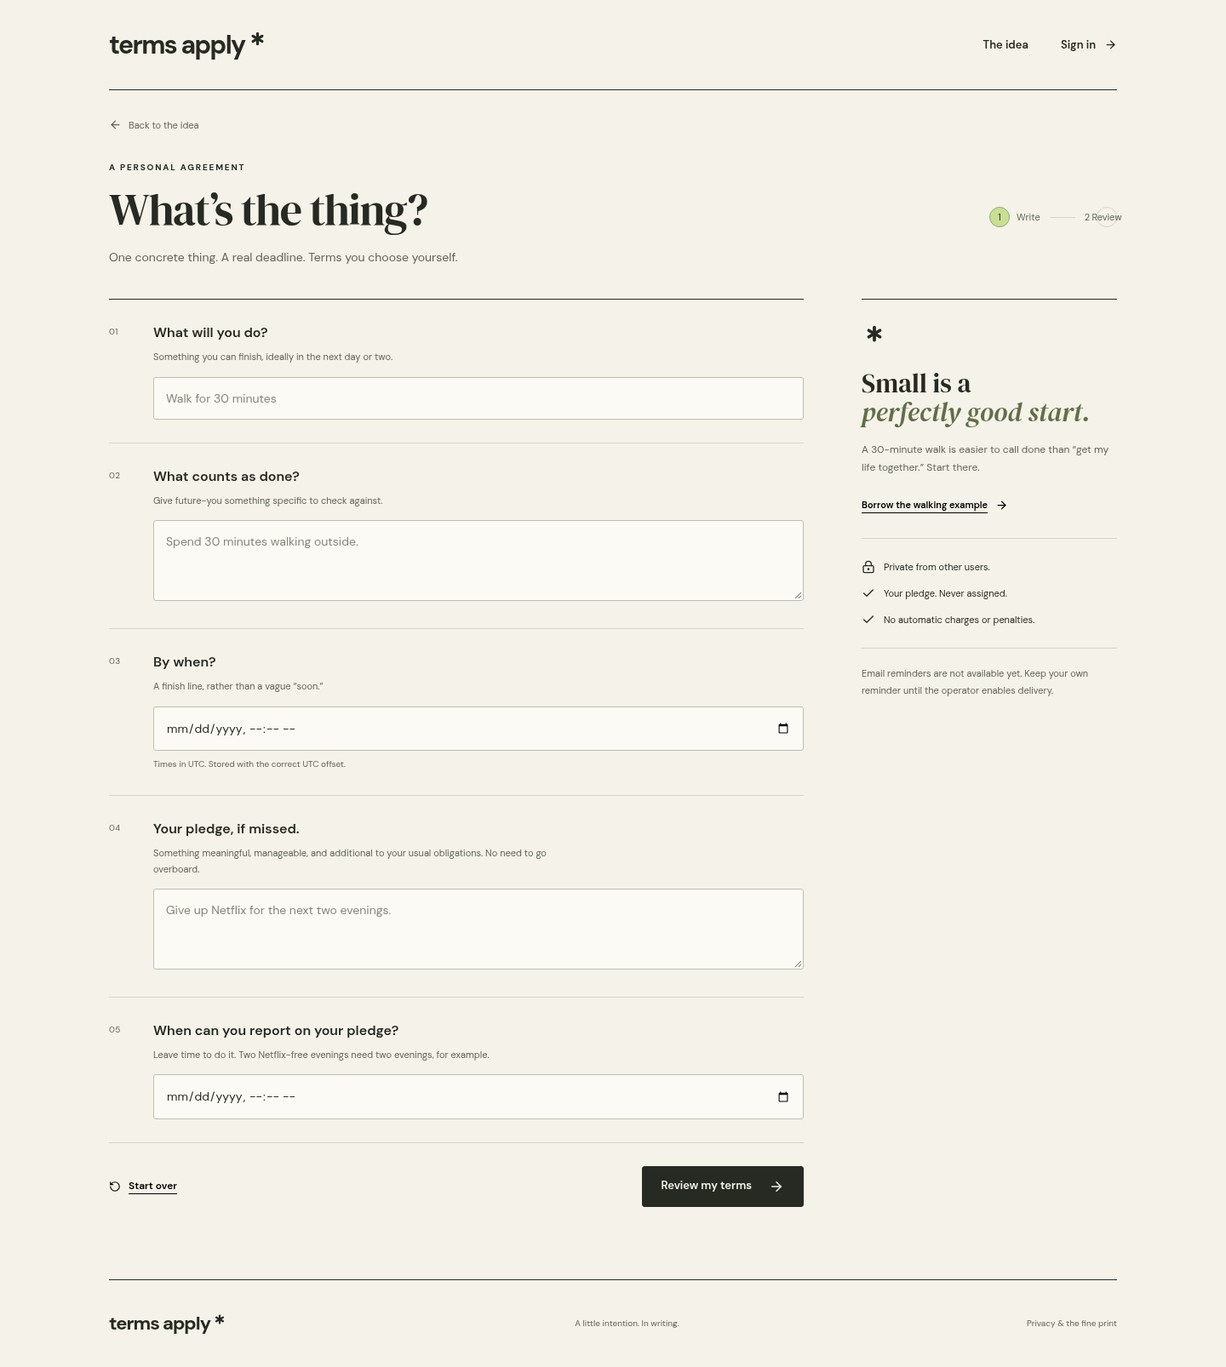
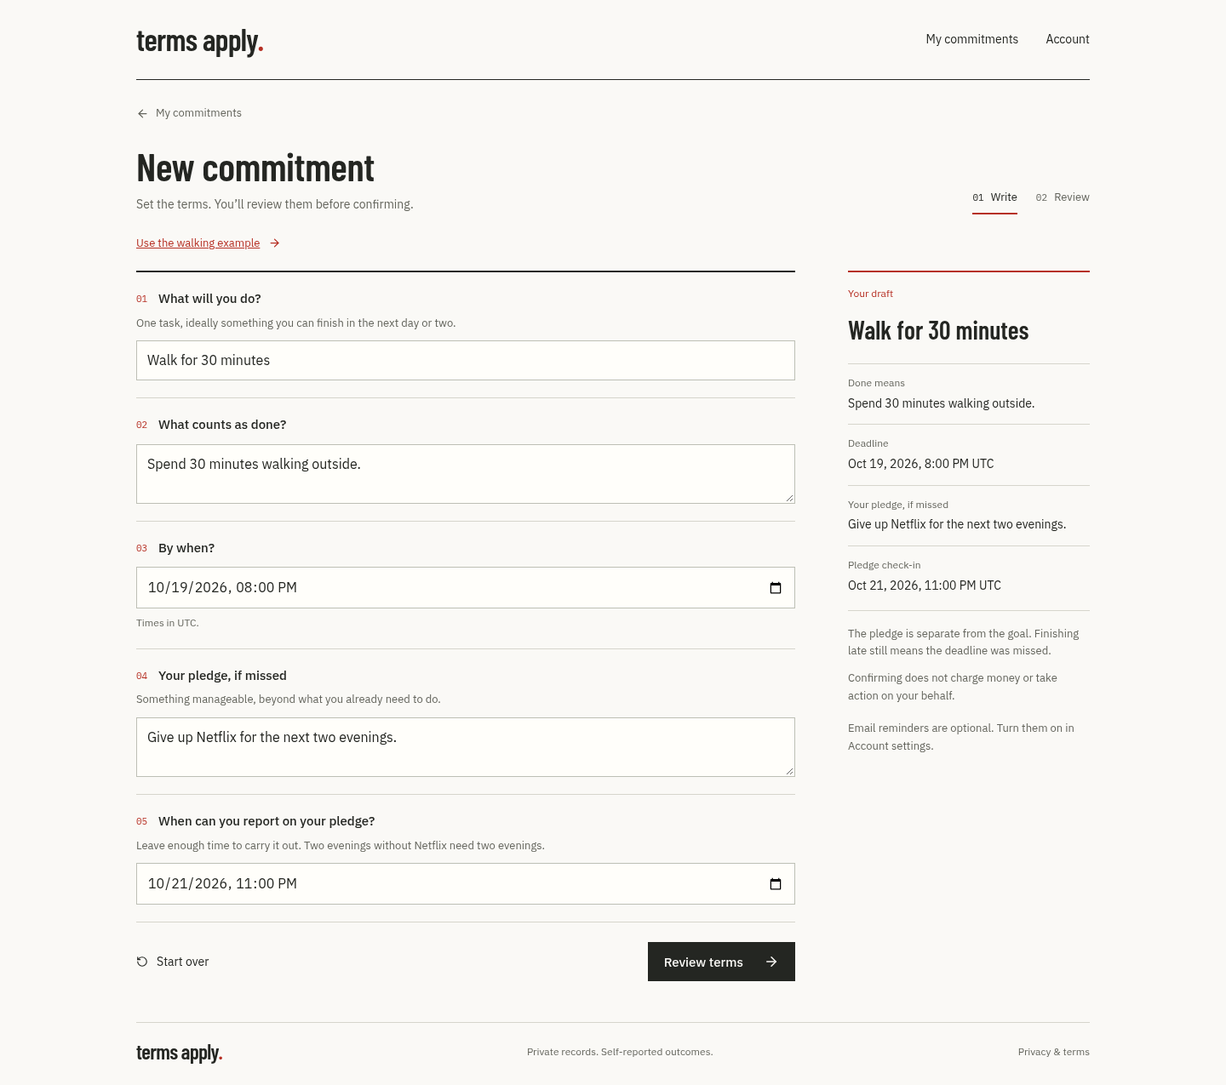
Document print design and end-to-end verification

diff --git a/docs/VERIFICATION.md b/docs/VERIFICATION.md
@@ -1,25 +1,36 @@
 # Verification record
 
-Build date: 17 October 2026 (owner timezone). Runtime: Node 24.19.0. This document records executed checks separately from deployment requirements.
+## Direction A redesign — 18 October 2026
 
-| Check                                                                                                | Result                                                                                                                                    |
-| ---------------------------------------------------------------------------------------------------- | ----------------------------------------------------------------------------------------------------------------------------------------- |
-| TypeScript and production build                                                                      | Passed                                                                                                                                    |
-| Database permissions / RLS / transitions / jobs / deletion, PGlite PostgreSQL                        | Passed                                                                                                                                    |
-| Local-time / DST validation, state presentation, private email content, worker boundaries            | Passed                                                                                                                                    |
-| Chromium public form, review/edit, unsigned-draft retention, private-route guards                    | Passed                                                                                                                                    |
-| Responsive public screens at 390px                                                                   | Passed                                                                                                                                    |
-| Automated WCAG A/AA checks on public pages, agreement details, check-in dialog, and account settings | Passed (axe); not a claim of complete accessibility certification                                                                         |
-| Netlify function bundled for Node                                                                    | Passed locally with esbuild                                                                                                               |
-| npm audit including development dependencies                                                         | Zero reported vulnerabilities at build time                                                                                               |
-| Real local Supabase Auth/PostgREST/Postgres/Mailpit integration                                      | Passed: confirmation, persistence, second-browser access, isolation, goal/pledge reports, withdrawal, export, consent, recovery, deletion |
-| Hosted Supabase signup/recovery and cross-device journey                                             | Not run; owner project required                                                                                                           |
-| Netlify production hosting and automatic schedule                                                    | Not run; owner site/access required                                                                                                       |
-| External email inbox delivery via verified Resend sender                                             | Not run; owner sending domain/key required                                                                                                |
-| Payments                                                                                             | Not implemented; no charges or subscriptions                                                                                              |
+Runtime: Node 24.19.0, Chromium installed at `/usr/bin/chromium`. The owner selected A · Print. The redesign changes presentation and copy throughout the app and reminder emails; database migrations and access-control rules are unchanged. No new environment variables or database setup are required for the web redesign.
 
-The standalone SQL suite uses the actual migration with test auth roles, not JavaScript simulations of server rules. The local-service browser suite uses actual Supabase Auth, PostgREST, Postgres, and captured SMTP emails. Neither proves the production configuration. Tests backdate only local fixtures to exercise delayed check-ins; production terms are never edited by the app.
+| Check                                                                                             | Result                                                                                                                                                                                     |
+| ------------------------------------------------------------------------------------------------- | ------------------------------------------------------------------------------------------------------------------------------------------------------------------------------------------ |
+| TypeScript, rule/database/model/worker tests, production build                                    | Passed: `npm run check`, 37 tests; final production build rerun after the last CSS refinement                                                                                              |
+| Public browser journey, review/edit, unsigned-draft retention, route guards and responsive layout | Passed: 5 Playwright checks                                                                                                                                                                |
+| Actual local Auth/PostgREST/Postgres/Mailpit account journey                                      | Passed: signup email/confirmation, persistence, another browser, isolation, early goal report, late goal/pledge, not yet/final history, withdrawal, export, opt-in/out, recovery, deletion |
+| Expanded private/public visual checks                                                             | Passed: 16 surfaces at 1440px and 390px, axe WCAG A/AA and horizontal overflow checks; each also checked for overflow at 320px                                                             |
+| Other public viewport checks                                                                      | Passed at 320px, 768px and 1024px for landing, composer, sign-in, recovery and privacy                                                                                                     |
+| Reminder function bundle                                                                          | Passed: esbuild, Node 24 target                                                                                                                                                            |
+| Email HTML                                                                                        | Passed: reminder, signup and recovery previews at desktop/320px, automated accessibility and overflow checks; token URL substituted with a sample URL for account template previews        |
+| Email privacy                                                                                     | Tests verify both formats link to the private agreement/settings and omit recipient data from content; agreement ID is encoded in links                                                    |
+| Supabase template configuration                                                                   | Local TOML paths resolve and both HTML files retain `{{ .ConfirmationURL }}`                                                                                                               |
+| Hosted Supabase template application                                                              | Not applied from this environment; owner dashboard action required. See DEPLOYMENT.md                                                                                                      |
+| Live verification of this redesigned deployment                                                   | Not independently verified. This cloud environment has no Netlify/Supabase management connection and direct requests to the production domain are blocked by its network proxy             |
+| Billing                                                                                           | Not implemented; no charges or subscriptions                                                                                                                                               |
 
-Use the acceptance checklist in [DEPLOYMENT.md](DEPLOYMENT.md) after connecting real services. Record the production URL and commit SHA, external inbox delivery, schedule observations, and results there before launch. The existing waitlist site and Google Sheet have not been modified.
+The expanded browser run uses `CAPTURE_DESIGN=1 PLAYWRIGHT_CHROMIUM_EXECUTABLE_PATH=/usr/bin/chromium npm run test:services`. Screenshots in `docs/screenshots/` show disposable local test records and generated example emails, not live customer accounts. The photo and self-hosted fonts are bundled locally; the main 1280px photo is about 98KB and the smaller derivative is about 41KB.
 
-Final local run: `npm run check` passed 36 tests and the production build; `npm run test:e2e` passed 5 browser checks; `npm run test:services` passed the complete real-service browser journey. Screenshots in `docs/screenshots/` show the local UI with example terms, not a live customer account.
+An initial integration assertion was ambiguous after the same on-time wording appeared in both the action heading and history. It was scoped to the action heading; the underlying outcome assertions were retained. The final expanded journey passed after the CSS and narrow-screen refinements. Disposable containers and their database were removed by the test harness.
+
+The SQL suite executes the real migration under PostgreSQL auth roles; it does not simulate server permissions in JavaScript. The local-service suite uses actual Auth, PostgREST, Postgres and captured SMTP emails. It backdates only disposable local fixtures to exercise delayed reports. Production terms are never edited by the app.
+
+## Earlier deployment evidence
+
+During onboarding, the owner reported successful signup and confirmation email, scheduled reminder delivery with the app closed, a working agreement link, and secure access at `https://termsapply.me` in a fresh browser. The main-domain authentication URLs and reminder origin were then updated by the owner. Those observations predate this redesign and are not independent verification of the new deploy.
+
+Real password recovery on the canonical domain was requested as a final onboarding check but has not been separately confirmed by the owner. Hosted template changes must be followed by a fresh real signup and recovery test. The local Docker harness uses Auth's default templates, so its successful journey does not prove a dashboard template change.
+
+The original 17 October build passed 36 automated tests and 6 browser checks, including the real local-service journey. Its npm audit reported zero vulnerabilities at build time. The redesign removes two unused font packages and does not add runtime dependencies; an advisory audit was not repeated as part of visual verification.
+
+Use the live acceptance checklist in [DEPLOYMENT.md](DEPLOYMENT.md) for production checks. Record the published commit and date when verifying the redesigned site. GitHub updates alone do not establish that Netlify finished deployment or that external email arrived.

diff --git a/docs/DESIGN.md b/docs/DESIGN.md
@@ -1,0 +1,35 @@
+# Terms Apply design
+
+The owner selected **A · Print** on 18 October 2026 after reviewing the two visual studies in `design/studies/`. The reference is thoughtful print advertising: a clear observation, purposeful imagery, firm typesetting, and useful language. The live app should follow this direction consistently; the old cream/green serif treatment is retired.
+
+## Shared system
+
+- **Headlines:** Barlow Condensed, semibold. Use for the wordmark, landing headline, page titles, and short section headings. No decorative italic second line.
+- **Working text:** IBM Plex Sans, regular/medium/semibold. Use for user-entered goals in lists, agreement terms, forms, navigation, and explanatory copy. Inputs remain at least 16px on phones.
+- **Metadata:** IBM Plex Mono only for small, nonessential numbering. Essential labels use readable sans-serif text; avoid tiny all-caps instructions.
+- **Colour:** paper `#faf9f6`, ink `#242622`, muted text `#64655d`, rules `#d6d5cc`, accent `#b63024`. Green/amber status treatments communicate state; they are not the brand palette.
+- **Layout:** a shared 1120px content width, deliberate rules, square controls, and clear spacing between decisions. Mobile uses 20px page margins and a single column. User text and long addresses wrap rather than overflow.
+- **Interaction:** visible keyboard focus, native labelled inputs, accessible native dialogs, consistent button treatment, and reduced-motion support. Report and confirmation actions stay explicit.
+
+The primary landing photo is the original walking-shoe/calendar-page study. Production uses 768px and 1280px WebP derivatives (about 41KB and 98KB), with responsive image selection. The original and provenance remain in `design/studies/`. Fonts are self-hosted in `public/fonts/`; their Open Font Licenses are in `public/licenses/`. No external font service or image tracking is added.
+
+## Writing
+
+Explain what happens and what to do next. Use humour sparingly, where an observation supports the product. Avoid pleading, superiority, moral judgement, and manufactured motivation. Do not turn every heading into a tagline.
+
+Use literal labels such as **Your commitments**, **New commitment**, **Review your terms**, **History**, **Email reminders**, and **Save report**. Keep explanations beside the decisions they help with. Avoid “tomorrow-you”, “the ball’s in your court”, “a deal’s a deal”, celebratory judgements about honesty, and repeated fragments about intention.
+
+Outcome language must follow `PRODUCT.md`. Reporting late is not completing late. A missed or late goal activates the user's own pledge. Silence is unreported; not yet is unresolved. The app does not independently verify behaviour or enforce consequences.
+
+## Screen behaviour
+
+- Landing: one headline and image, a short explanation, the three product steps, and the complete walking example. Reminder availability reflects configuration.
+- Composer: a blank draft by default; an explicit button can load the walking example. A desktop summary updates while editing. Phones retain all five fields and a complete review step without a duplicate sidebar. Focus moves to review or the first invalid field.
+- Review: show every term, permit editing, and require acknowledgement before confirmation. Original terms remain immutable after confirmation.
+- Dashboard: literal Open / History / All filters; readable goals, deadlines, states, and pledges. Empty states explain how to start.
+- Agreement: original terms and timestamped history remain visible. Phones place the next relevant action before the original terms and history. No decorative success score or fabricated progress measurement.
+- Goal / pledge / withdrawal dialogs: concise questions, readable controls, notes marked optional, and explicit consequences of recording an answer.
+- Accounts / settings / privacy / recovery / errors: the same type, rules, and button system. Account forms remain usable without a decorative panel on phones.
+- Email: simple ink/red HTML with a plain-text alternative. System-font fallbacks work in email clients. No customer goal/pledge text, remote imagery or remote fonts in reminders. Hosted Supabase signup/recovery branding needs its dashboard templates applied separately; see DEPLOYMENT.md.
+
+These are working design rules. Further changes should be judged using real app screens on both desktop and phones, rather than a landing headline alone. The original studies remain as design history, not a second production UI.

diff --git a/README.md b/README.md
@@ -1,6 +1,6 @@
 # Terms Apply
 
-A goal. A deadline. Your own terms. A private follow-through app built with React, Supabase, and Netlify.
+A private commitment app. Choose a goal, a deadline, and your own pledge if you miss it. Built with React, Supabase, and Netlify.
 
 ## Develop
 
@@ -28,6 +28,8 @@ For real **local** auth/database/mail integration, with Docker installed:
 npm run test:services
 ```
 
+For desktop/mobile screenshots and additional accessibility/layout checks during the real local journey, run `CAPTURE_DESIGN=1 npm run test:services`. Screenshots are written to Playwright's `test-results/` folder.
+
 The harness starts disposable PostgreSQL 17, Supabase Auth, PostgREST, Kong, and Mailpit containers. It generates temporary credentials in memory, applies the real migration, launches Vite on port 5174, runs the complete account journey, then removes its test containers. All ports bind to loopback. It refuses to reuse an existing local test database and never uses production keys. This suite does not send external emails or establish production delivery.
 
 `supabase/config.toml` is also available for developers who prefer the full Supabase CLI stack. Stop that stack before running the isolated integration harness; both use the standard local API/database ports.
@@ -41,7 +43,9 @@ Use [the step-by-step setup guide](docs/DEPLOYMENT.md). Import this GitHub repos
 - `src/` — responsive UI, account flows, composer, records, check-ins, settings, privacy.
 - `supabase/migrations/` — tables, RLS, immutable-write RPCs, reminder jobs, deletion.
 - `netlify/functions/reminders.ts` — scheduled, leased, idempotent email worker.
+- `public/fonts/`, `public/images/` — self-hosted licensed fonts and optimised design assets.
+- `supabase/templates/` — matching confirmation/recovery email templates; hosted Supabase needs these applied in its email-template settings.
 - `tests/` — SQL under real database roles, model/email tests, browser journeys.
-- [Product rules](docs/PRODUCT.md), [implementation plan](docs/PLAN.md), [operations](docs/OPERATIONS.md), [verification record](docs/VERIFICATION.md).
+- [Product rules](docs/PRODUCT.md), [design system](docs/DESIGN.md), [implementation plan](docs/PLAN.md), [operations](docs/OPERATIONS.md), [verification record](docs/VERIFICATION.md).
 
 Secrets belong in `.env` locally or Netlify/Supabase settings, never Git. Only `VITE_` variables are included in the browser bundle; **never** give a service credential that prefix.

diff --git a/docs/DEPLOYMENT.md b/docs/DEPLOYMENT.md
@@ -16,6 +16,12 @@ This is the app, separate from `https://terms-apply.netlify.app/` and its existi
 2. Use a sender on the verified domain, for example `Terms Apply <hello@mail.yourdomain.com>`. Create a sending API key. Store it in Netlify server variables.
 3. Configure **custom SMTP in Supabase Authentication** too. Default Supabase email delivery is restricted and is not a production signup/recovery solution. For Resend use the current official SMTP settings (normally host `smtp.resend.com`, port 465, username `resend`, password your sending API key), with the verified sender. Confirm these against your provider dashboard. Secrets go in Supabase settings, never a SQL migration or the browser.
 4. Disable open/click tracking for transactional mail where possible. Review Resend data retention and processing terms. The reminder worker sends recipient address, generic reminder copy, scheduled time, timezone, and agreement link. It omits goal/pledge text and notes.
+5. Apply the matching account email templates in **Supabase → Authentication → Email → Templates** (the menu may be labelled Email Templates):
+   - **Confirm signup**: subject `Confirm your email — Terms Apply`; replace the HTML body with `supabase/templates/confirmation.html`.
+   - **Reset password**: subject `Reset your password — Terms Apply`; replace the HTML body with `supabase/templates/recovery.html`.
+   - Keep `{{ .ConfirmationURL }}` exactly as written. It preserves the authentication service's verification and PKCE redirect flow. Save both, then test a real signup and password reset from the same browser that requested the email.
+   - These files are configured for the local Supabase CLI too. Pushing code to GitHub/Netlify **does not update hosted Supabase templates**. The separate disposable Docker harness uses Auth's default templates; its successful journey does not validate a dashboard template change.
+6. Reminder emails include matching HTML and a plain-text alternative automatically after the Netlify function deploys. They load no remote images or fonts. The worker retains the same opt-in, eligibility and retry rules.
 
 ## 3. Netlify
 

diff --git a/docs/OPERATIONS.md b/docs/OPERATIONS.md
@@ -1,5 +1,13 @@
 # Operations
 
+## Deployment reference
+
+Owner-confirmed setup: the canonical app domain is `https://termsapply.me`; its Netlify project is `term-apply` (`https://term-apply.netlify.app`). Supabase project `termsapply` uses `https://rpdttrbgwnrroyaqdcns.supabase.co`. Transactional sending is through Resend on `mail.termsapply.me`. The separate waitlist at `https://terms-apply.netlify.app` remains unchanged. These identifiers are public; keys and credentials belong only in provider settings.
+
+The maintained source is GitHub `take-me-to-space/terms-apply` on `main`. During initial deployment, Netlify used `codex/terms-apply-app`; the redesign release updates that branch to the same tested commit too, so the existing production binding can pick it up. Check Netlify's actual production branch and published commit before diagnosing a stale site. Do not assume a Git push means a deploy has finished.
+
+Hosted Supabase email-template settings are managed separately from GitHub/Netlify. Matching signup and recovery HTML is in `supabase/templates/`; application instructions are in DEPLOYMENT.md. A code deploy updates reminder emails but does not change hosted authentication email templates.
+
 ## Reminders
 
 Netlify runs `reminders` every five minutes on the production deployment. The worker claims up to 10 due jobs per invocation, leases for 10 minutes, and rechecks consent, verified address, withdrawal, goal outcome, and pledge status immediately before sending. Requests are staggered by 750ms within a batch to avoid a burst against the email provider’s rate limit. There is one job per agreement and reminder kind. Create close to a deadline? Already-past advance reminders are skipped. A late/missed report after the pledge check-in schedules a pledge check-in immediately.

diff --git a/docs/PLAN.md b/docs/PLAN.md
@@ -1,7 +1,7 @@
 # Implementation plan
 
 1. Establish architecture and product invariants (PRODUCT.md).
-2. Build the public page and accessible, responsive commitment composer. Use an ink/paper/acid-green editorial style inspired by the owner's references, without reproducing copyrighted artwork.
+2. Build the public page and accessible, responsive commitment composer. The owner selected direction A on 18 October 2026: condensed Barlow headlines, IBM Plex Sans text, restrained vermilion accents, a photographic walking example, and direct product copy. Apply the system documented in DESIGN.md across the app.
 3. Implement verified accounts, immutable agreements, goal and pledge check-ins, withdrawal, history, settings, and deletion.
 4. Implement durable reminders with consent, state checks, bounded retries, and operator diagnostics.
 5. Validate the database under actual user roles, browser flows, production bundle, and server function types. Document owner setup and a production smoke-test checklist.

diff --git a/design/studies/README.md b/design/studies/README.md
@@ -1,6 +1,6 @@
 # Terms Apply: visual studies
 
-Two exploratory directions, made on 18 October 2026. Neither has been selected or deployed. These files are independent of the production React entry point and contain no account credentials or database integration.
+Two exploratory directions, made on 18 October 2026. The owner subsequently selected **A · Print**; the production implementation follows `docs/DESIGN.md`. These studies remain as design history. Their files are independent of the production React entry point and contain no account credentials or database integration.
 
 The owner’s reference boards are the starting point: thoughtful vintage advertising, graphic posters, and unusual photographic compositions. The shared brief is coherence, useful writing, readable typography, and restraint. Humour should arise from an observation about the product; avoid motivational slogans, teasing the user, and decorative cleverness.
 
